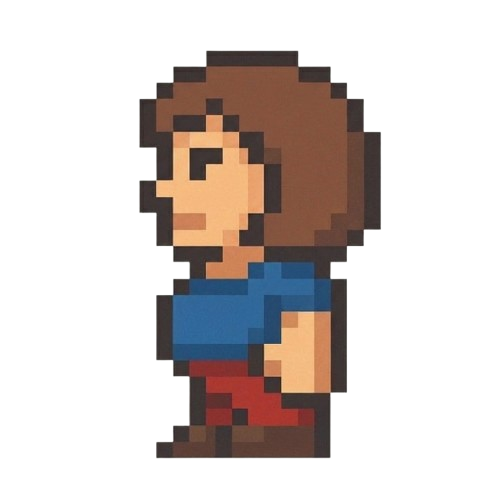
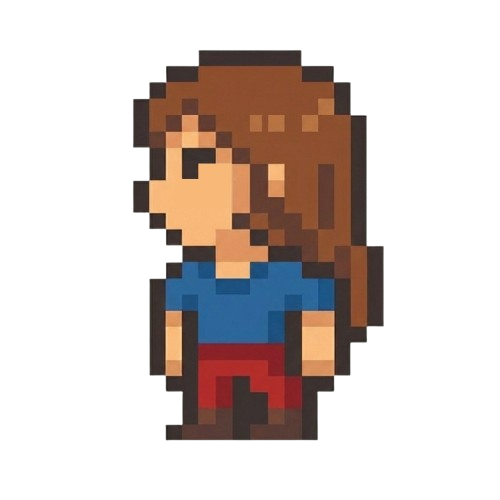
Déplacements finis

Changed region(s): [[0.24, 0.09, 0.78, 0.93], [0.57, 0.09, 0.63, 0.18]]

diff --git a/Saé/UCForet.xaml b/Saé/UCForet.xaml
@@ -6,7 +6,7 @@
              xmlns:local="clr-namespace:Saé"
              mc:Ignorable="d" 
              d:DesignHeight="450" d:DesignWidth="800" Loaded="UserControl_Loaded" Height="450" Width="800">
-    <Canvas x:Name="canvasJeu" KeyDown="canvasJeu_KeyDown">
+    <Canvas x:Name="canvasJeu" KeyDown="canvasJeu_KeyDown" KeyUp="canvasJeu_KeyUp">
         <Image Source="/images/fondForet1.jpeg" Stretch="Fill" Height="450" Width="800"/>
         <Image Source="/images/fondForet2.jpeg" Stretch="Fill" Canvas.Left="800" Height="450" Width="800"/>
         <Image x:Name="imgPerso" Source="/images/img{MainWindow.Perso}Face.png" Height="120" Width="120" Canvas.Left="20" Canvas.Bottom="60"/>

diff --git a/Saé/UCForet.xaml.cs b/Saé/UCForet.xaml.cs
@@ -38,24 +38,26 @@ namespace Saé
                 if (e.Key == Key.Right)
                 {
                     Canvas.SetLeft(imgPerso, Canvas.GetLeft(imgPerso) + MainWindow.pasPerso);
-                    imgPerso.Source = new BitmapImage(new Uri($"pack://application:,,,/images/img{MainWindow.Perso}DroiteMarche.png"));
+                    imgPerso.Source = new BitmapImage(new Uri($"pack://application:,,,/images/img{MainWindow.Perso}Droite.png"));
                 }
                 else if (e.Key == Key.Left)
                 {
                     Canvas.SetLeft(imgPerso, Canvas.GetLeft(imgPerso) - MainWindow.pasPerso);
-                    imgPerso.Source = new BitmapImage(new Uri($"pack://application:,,,/images/img{MainWindow.Perso}GaucheMarche.png"));
-                }
-                else
-                {
-                    imgPerso.Source = new BitmapImage(new Uri($"pack://application:,,,/images/img{MainWindow.Perso}Face.png"));
+                    imgPerso.Source = new BitmapImage(new Uri($"pack://application:,,,/images/img{MainWindow.Perso}Gauche.png"));
                 }
                 Console.WriteLine("Position gauche personnage :" + Canvas.GetLeft(imgPerso));
             }
         }
 
+        private void canvasJeu_KeyUp(object sender, KeyEventArgs e)
+        {
+            imgPerso.Source = new BitmapImage(new Uri($"pack://application:,,,/images/img{MainWindow.Perso}Face.png"));
+        }
+
         private void UserControl_Loaded(object sender, RoutedEventArgs e)
         {
             Application.Current.MainWindow.KeyDown += canvasJeu_KeyDown;
+            Application.Current.MainWindow.KeyUp += canvasJeu_KeyUp;
         }
     }
 }
